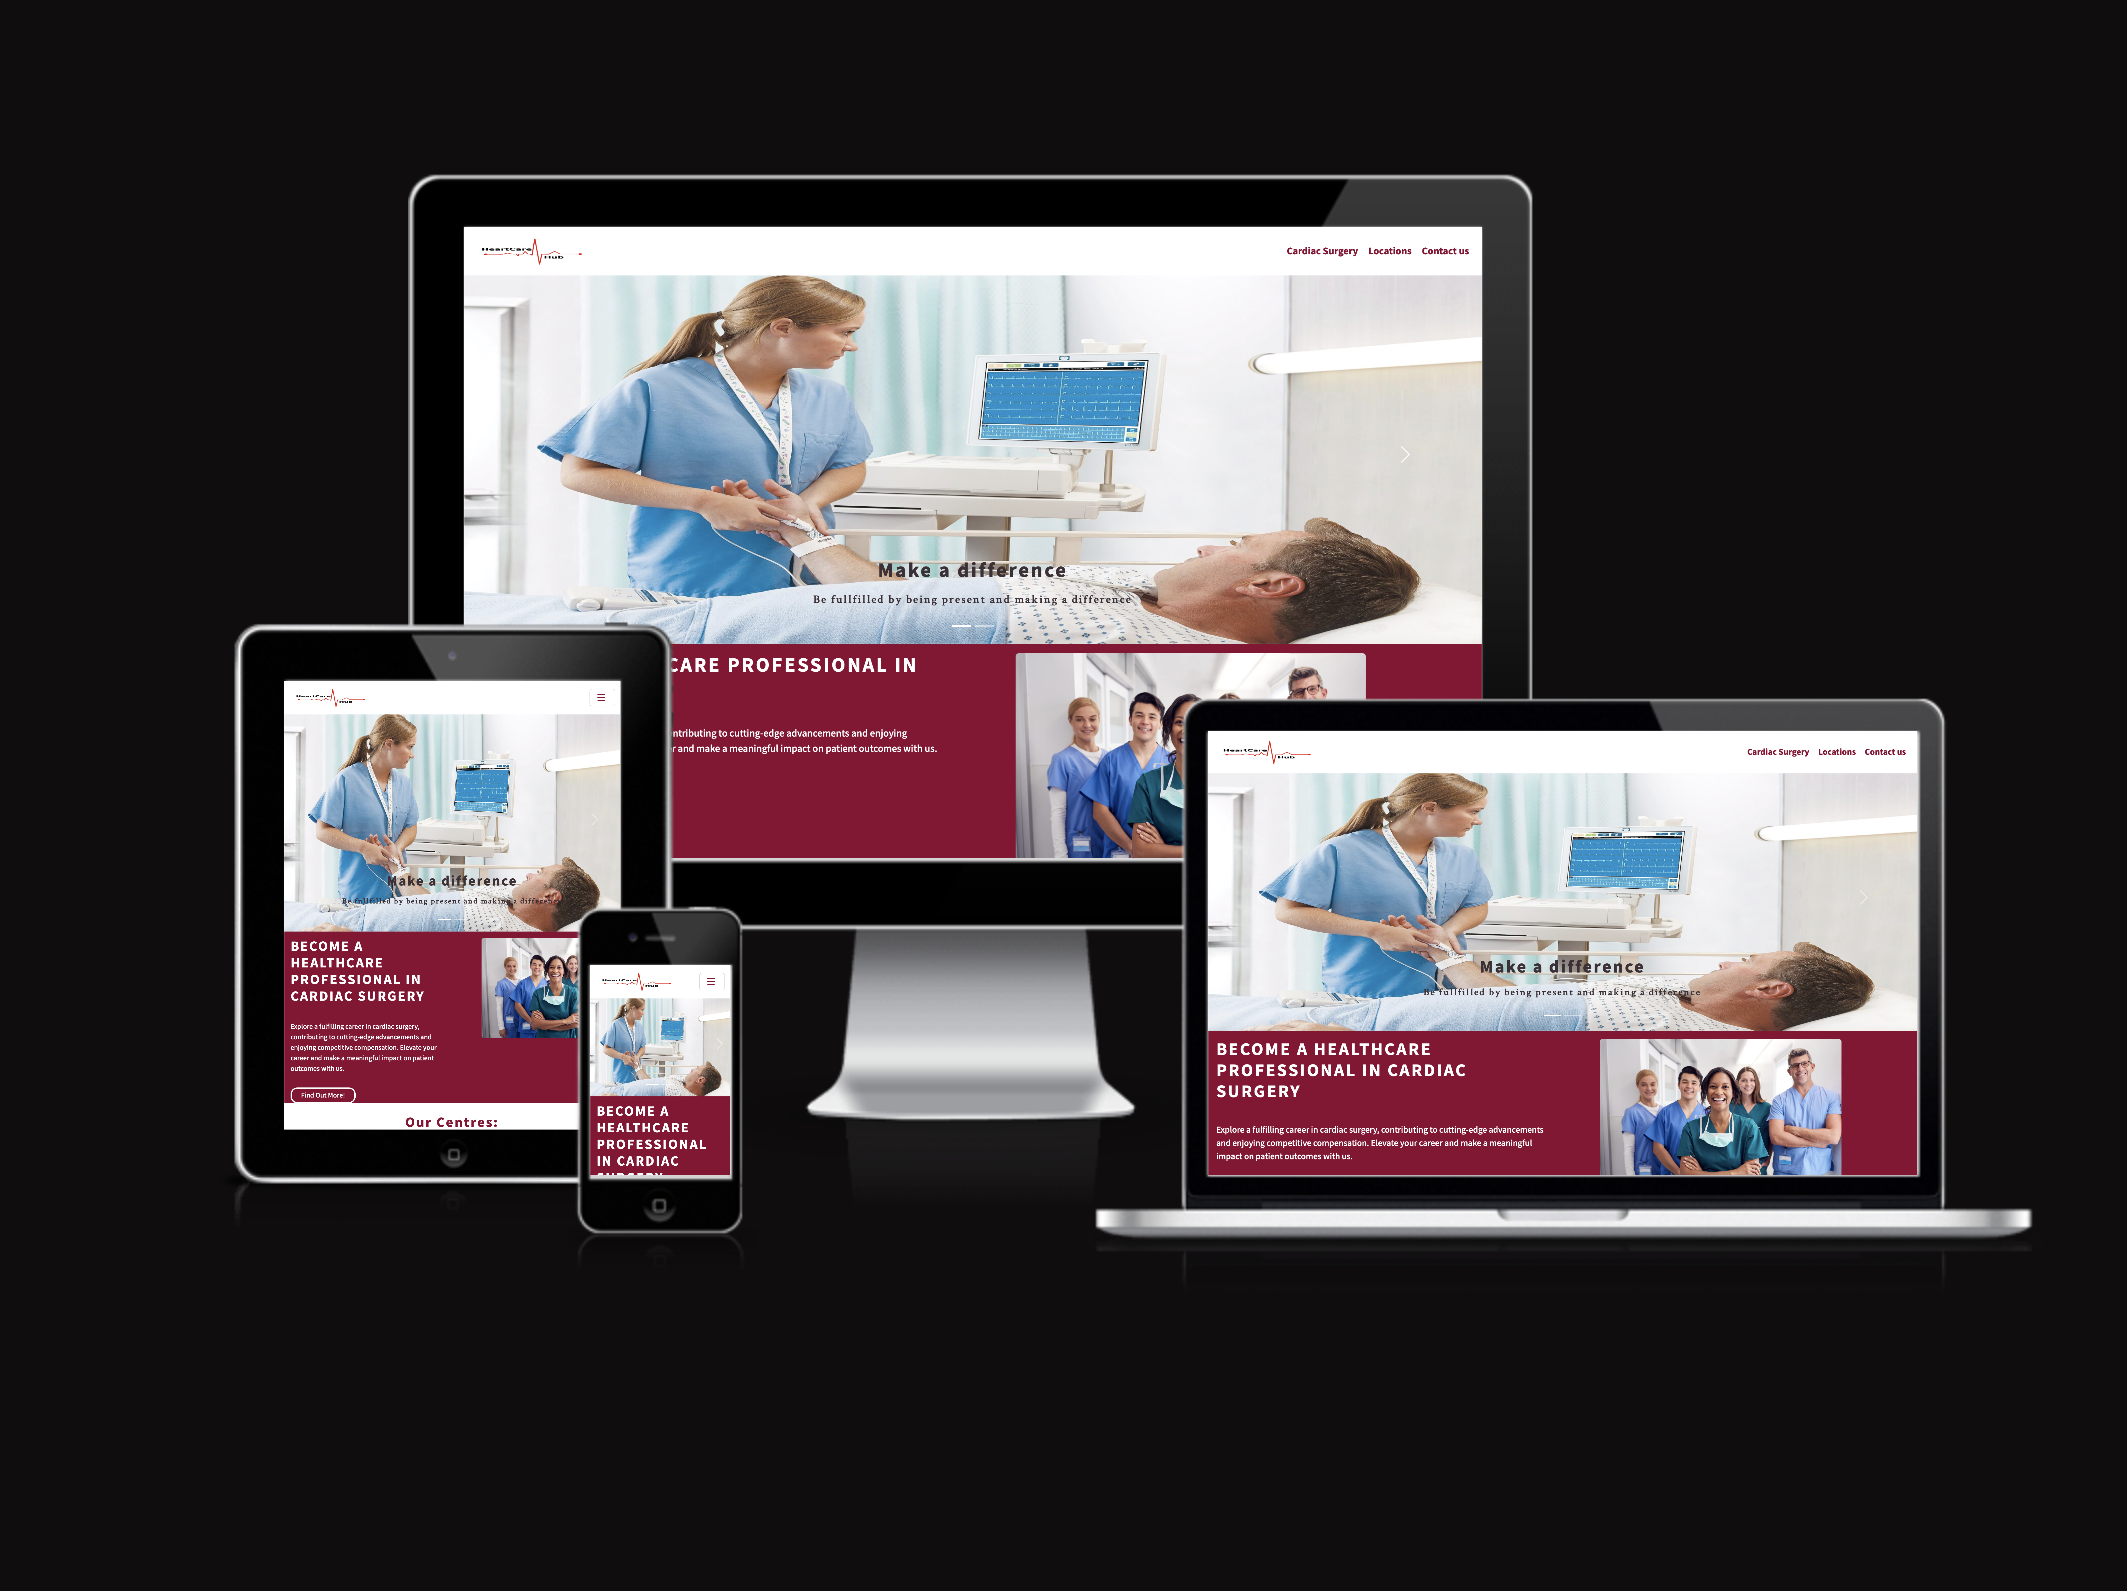
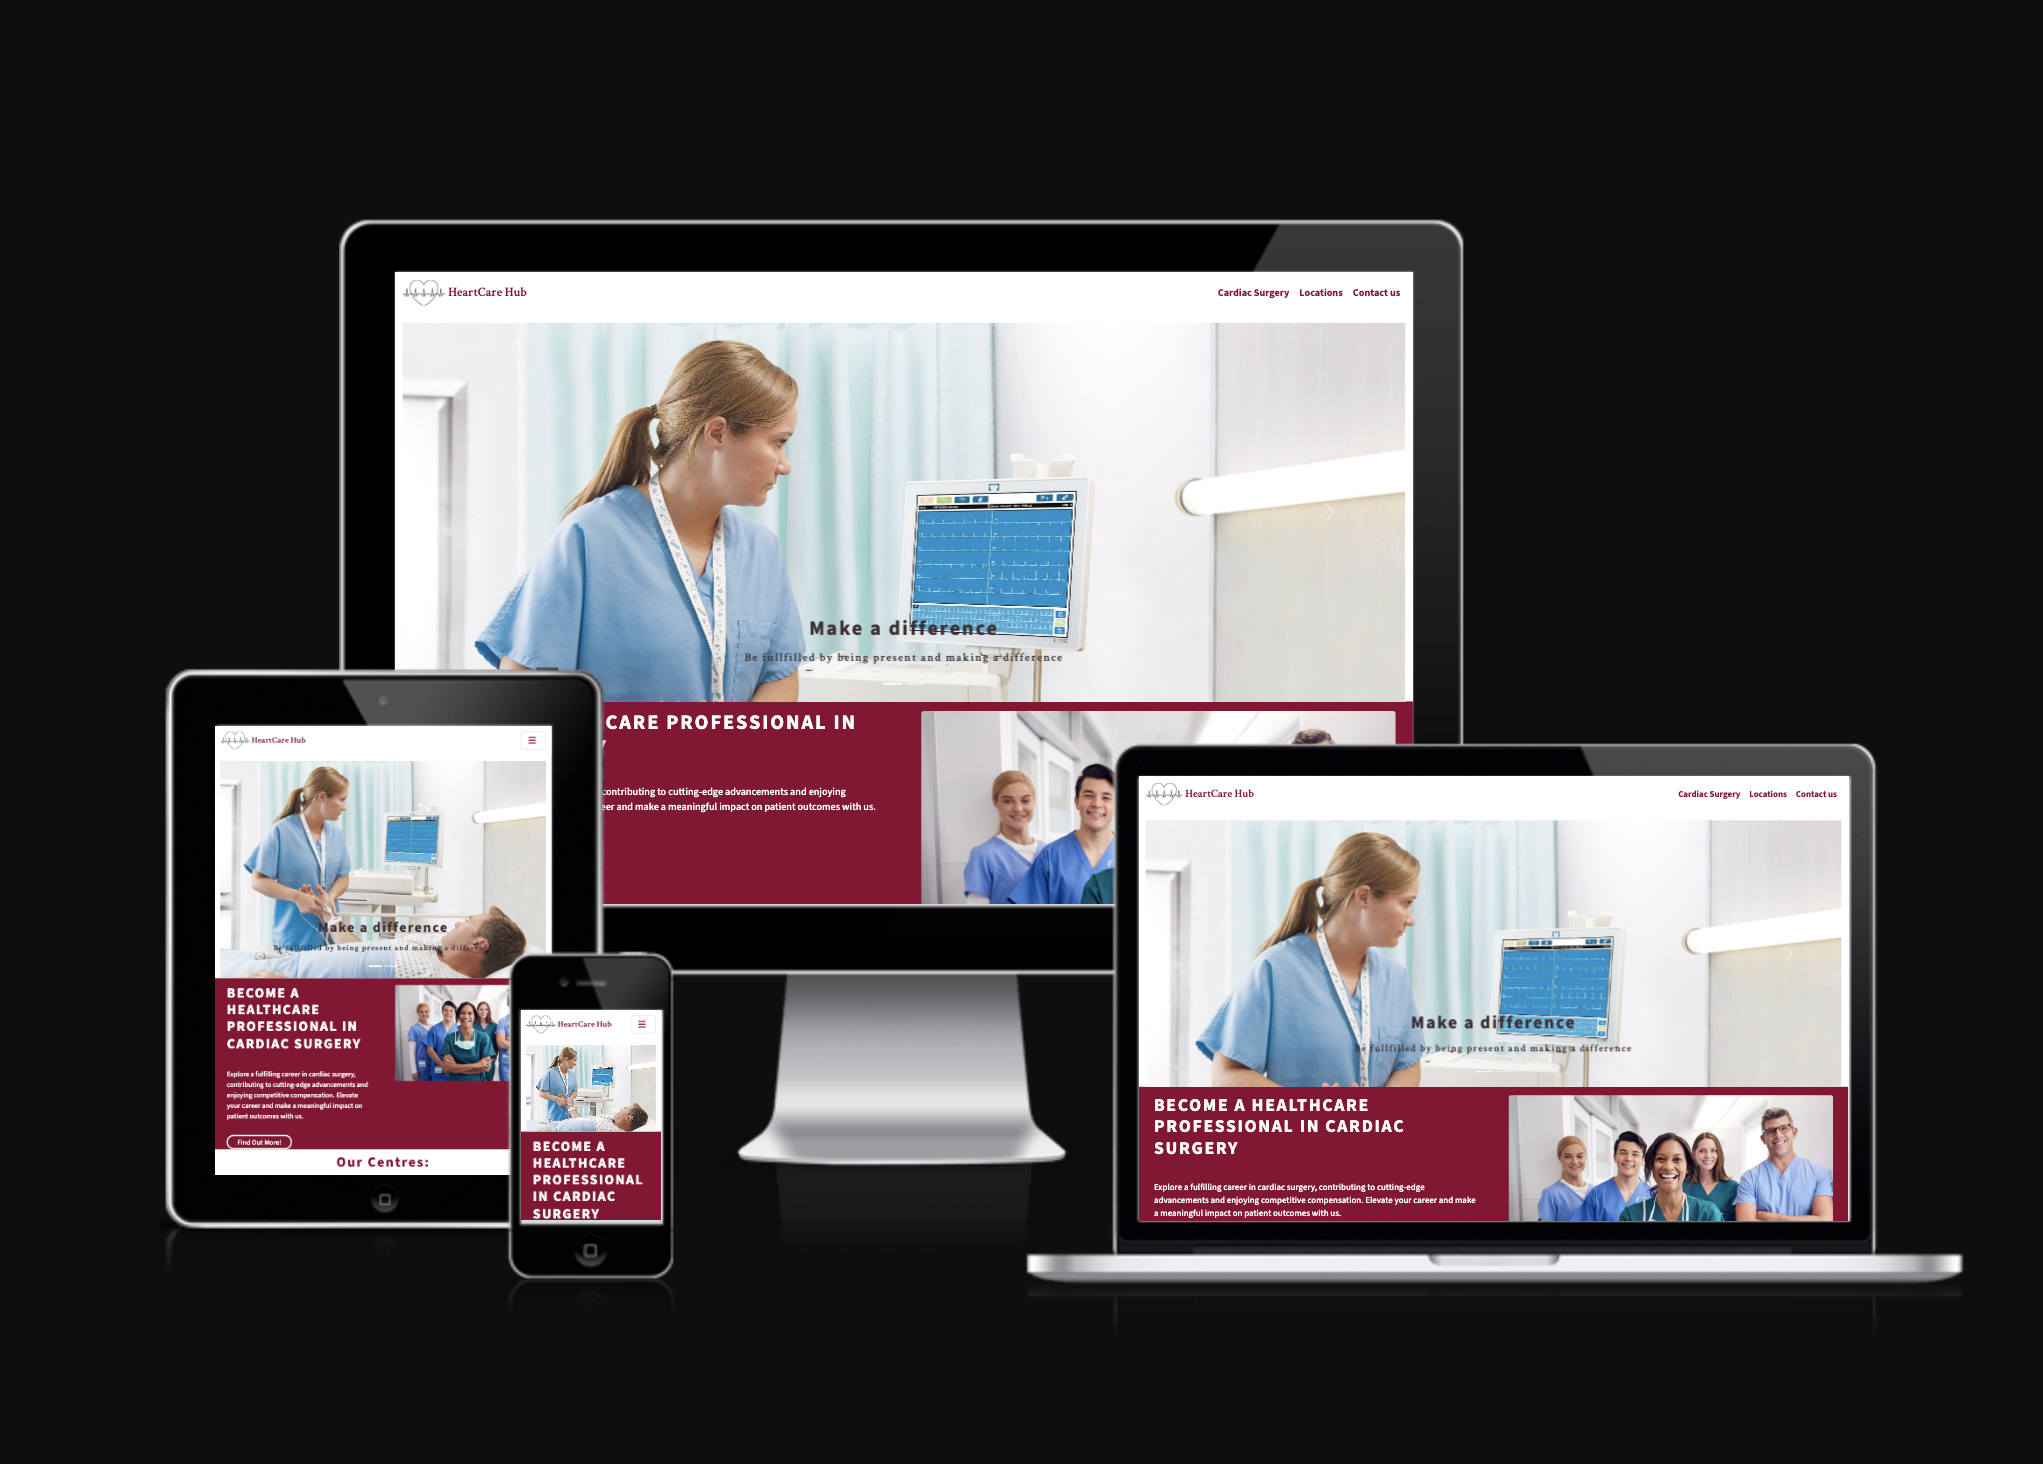
Add content credits

diff --git a/README.md b/README.md
@@ -18,15 +18,15 @@ In this section, you will briefly explain your design processes.
 
  Research have shown that most medical websites use blue as the primary theme to promote trust and professionalism[1]. However, I have chosen a set of colours that provide an association to the colours of the heart to correspond with the theme of cardiac surgery. Below are the set of colours chosen to represent the website.
 
-- `#e71348` used for primary text.
-- `#fff` used for primary highlights.
-- `#8C0032` used for secondary text.
-- `#666666` used for secondary highlights.
+- `#8C0032` used for primary text.
+- `#8C0032` used for primary highlights.
+- `#3d3035` used for secondary text.
+- `#fff` used for secondary highlights.
 
 
 I used [coolors.co](https://coolors.co/8c0032-e71348-ffffff-666666-333333) to generate my colour palette.
 
-![screenshot](![color scheme](documentation/colourscheme.png))
+![screenshot](![color scheme](documentation/colourscheme2.png))
 
 
 
@@ -38,7 +38,7 @@ These three fonts were recommended for the use of healthcare websites: [2]
 
 Source Sans pro- sans-serif font
 Crimsons text- serif font
-Fjord One - sans-serif font
+
 The applied use of a combination serif and sans-serif is further recommended in a medical website to provide contrast.
 
 Therefore, these three recommended fonts will be used along with different font-weights used accodingly. Only two fonts will be used as three or more can make teh website appear excessive and lose professionalism [3].
@@ -202,24 +202,12 @@ Feel free to delete any unused items below as necessary.
 - [CSS Flexbox](https://www.w3schools.com/css/css3_flexbox.asp) used for an enhanced responsive layout.
 - [CSS Grid](https://www.w3schools.com/css/css_grid.asp) used for an enhanced responsive layout.
 - [JavaScript](https://www.javascript.com) used for user interaction on the site.
-- [Python](https://www.python.org) used as the back-end programming language.
 - [Git](https://git-scm.com) used for version control. (`git add`, `git commit`, `git push`)
 - [GitHub](https://github.com) used for secure online code storage.
 - [GitHub Pages](https://pages.github.com) used for hosting the deployed front-end site.
 - [Gitpod](https://gitpod.io) used as a cloud-based IDE for development.
 - [Codeanywhere](https://codeanywhere.com) used as a cloud-based IDE for development.
 - [Bootstrap](https://getbootstrap.com) used as the front-end CSS framework for modern responsiveness and pre-built components.
-- [Materialize](https://materializecss.com) used as the front-end CSS framework for modern responsiveness and pre-built components.
-- [Flask](https://flask.palletsprojects.com) used as the Python framework for the site.
-- [Django](https://www.djangoproject.com) used as the Python framework for the site.
-- [MongoDB](https://www.mongodb.com) used as the non-relational database management with Flask.
-- [SQLAlchemy](https://www.sqlalchemy.org) used as the relational database management with Flask.
-- [PostgreSQL](https://www.postgresql.org) used as the relational database management.
-- [ElephantSQL](https://www.elephantsql.com) used as the Postgres database.
-- [Heroku](https://www.heroku.com) used for hosting the deployed back-end site.
-- [Cloudinary](https://cloudinary.com) used for online static file storage.
-- [Stripe](https://stripe.com) used for online secure payments of ecommerce products/services.
-- [AWS S3](https://aws.amazon.com/s3) used for online static file storage.
 
 ## Testing
 
@@ -278,44 +266,28 @@ Use this space to discuss any differences between the local version you've devel
 
 ## Credits
 
-🛑🛑🛑🛑🛑 START OF NOTES (to be deleted) 🛑🛑🛑🛑🛑
-
-In this section you need to reference where you got your content, media, and extra help from.
-It is common practice to use code from other repositories and tutorials,
-however, it is important to be very specific about these sources to avoid plagiarism.
-
-🛑🛑🛑🛑🛑 END OF NOTES (to be deleted) 🛑🛑🛑🛑🛑
 
 ### Content
-
-🛑🛑🛑🛑🛑 START OF NOTES (to be deleted) 🛑🛑🛑🛑🛑
-
-Use this space to provide attribution links to any borrowed code snippets, elements, or resources.
-A few examples have been provided below to give you some ideas.
-
-Ideally, you should provide an actual link to every resource used, not just a generic link to the main site!
-
-🛑🛑🛑🛑🛑 END OF NOTES (to be deleted) 🛑🛑🛑🛑🛑
 
 | Source | Location | Notes |
 | --- | --- | --- |
 | [Markdown Builder](https://tim.2bn.dev/markdown-builder) | README and TESTING | tool to help generate the Markdown files |
-| [Chris Beams](https://chris.beams.io/posts/git-commit) | version control | "How to Write a Git Commit Message" |
-| [W3Schools](https://www.w3schools.com/howto/howto_js_topnav_responsive.asp) | entire site | responsive HTML/CSS/JS navbar |
-| [W3Schools](https://www.w3schools.com/howto/howto_css_modals.asp) | contact page | interactive pop-up (modal) |
-| [W3Schools](https://www.w3schools.com/css/css3_variables.asp) | entire site | how to use CSS :root variables |
-| [Flexbox Froggy](https://flexboxfroggy.com/) | entire site | modern responsive layouts |
-| [Grid Garden](https://cssgridgarden.com) | entire site | modern responsive layouts |
-| [StackOverflow](https://stackoverflow.com/a/2450976) | quiz page | Fisher-Yates/Knuth shuffle in JS |
-| [YouTube](https://www.youtube.com/watch?v=YL1F4dCUlLc) | leaderboard | using `localStorage()` in JS for high scores |
+| [Chris Beams](https://chris.beams.io/posts/git-commit) | Version control | "How to Write a Git Commit Message" |
+| [Bootstrap](https://getbootstrap.com/docs/4.0/components/navbar/) | Entire site | Responsive HTML/CSS/navbar |
+| [StackOverflow](https://stackoverflow.com/questions/40436285/bootstrap-navbar-logo-size) | Entire site | Customising nav |
+| [Bootstrap](https://getbootstrap.com/docs/5.3/components/carousel/) | Index page and Location page | Setting up a carousel |
+| [YouTube](https://www.youtube.com/watch?v=drAGqG-jm2Q) | Index page and Location page | Zoom hover effect |
+| [YouTube](https://www.youtube.com/watch?v=bGl6Jnud0QA) | Information page | Costumising the colours of the navpills |
+| [YouTube](https://www.youtube.com/watch?v=KIC0OK9nKXY) | Location | Embedding maps in HTML |
+| [YouTube](https://yoast.com/how-to-make-youtube-videos-responsive/) | Information page | Making the YouTube videos responsive |
 | [YouTube](https://www.youtube.com/watch?v=u51Zjlnui4Y) | PP3 terminal | tutorial for adding color to the Python terminal |
-| [strftime](https://strftime.org) | CRUD functionality | helpful tool to format date/time from string |
-| [WhiteNoise](http://whitenoise.evans.io) | entire site | hosting static files on Heroku temporarily |
-
-Reference:
-[1]doctorlogic.com. (n.d.). Beyond Blue and White: A Guide to Choosing Medical Logo Colors. [online] Available at: https://doctorlogic.com/blog/medical-logo-colors.html#:~:text=Why%20Are%20Blue%20And%20White.
-[2]Anon, (n.d.). Choosing The Best Fonts For Dental And Medical Websites | Dental CountryTM. [online] Available at: https://dentalcountry.com/doctors/articles/choosing-the-best-fonts-for-dental-and-medical-websites/#whatis [Accessed 10 Dec. 2023].
-[3]ThoughtCo. (n.d.). Everything You Need to Know About Choosing the Right Font Family. [online] Available at: https://www.thoughtco.com/font-families-basics-3467382.
+| [NHS](https://www.nhs.uk/conditions/congenital-heart-disease/types/#:~:text=Septal%20defects,main%20chambers%20of%20the%20heart.)| Information page | Information regarding Septal Defects|
+| [NHS](https://www.nhs.uk/conditions/coronary-artery-bypass-graft-cabg/)| Information page | Information regarding Coronary Artery Bypass Graft|
+| [Hopkins Medicine](https://www.hopkinsmedicine.org/health/treatment-tests-and-therapies/cardiovascular-surgery.) | Information page | Information regarding cardiac surgery |
+| [NHS Scotland](https://apply.jobs.scot.nhs.uk/Job/JobDetail?JobId=133087#:~:text=Duties%20include%20the%20provision%20of,bedded%20cardiothoracic%20critical%20care%20unit) | Information page | Information regarding aneasthethist role |
+| [Indeed Career](https://au.indeed.com/career-advice/finding-a-job/what-does-a-cardiac-nurse-do) | Information page | Information regarding nurses |
+| [StackOverflow](https://stackoverflow.com/questions/8097744/how-do-i-center-this-form-in-css) | entire site | How to center a div in a div |
+| [YouTube](https://www.youtube.com/watch?v=-jnCgrR_yKg) | Entire Site | Tutorial on the bootstrap grid system |
 
 ### Media
 | Source | Location | Type | Notes |
@@ -337,17 +309,17 @@ Reference:
 | [Osmosis from Elsevier](https://www.youtube.com/watch?v=e7ObXrdtXek) | Information page | Youtube Video | Informative video on ventricular septal defect|
  [Osmosis from Elsevier](https://www.youtube.com/watch?v=GUagU8YrJZc) | Information page | Youtube Video | Informative video on aortic dissection|
 
+
+Reference:
+[1]doctorlogic.com. (n.d.). Beyond Blue and White: A Guide to Choosing Medical Logo Colors. [online] Available at: https://doctorlogic.com/blog/medical-logo-colors.html#:~:text=Why%20Are%20Blue%20And%20White.
+[2]Anon, (n.d.). Choosing The Best Fonts For Dental And Medical Websites | Dental CountryTM. [online] Available at: https://dentalcountry.com/doctors/articles/choosing-the-best-fonts-for-dental-and-medical-websites/#whatis [Accessed 10 Dec. 2023].
+[3]ThoughtCo. (n.d.). Everything You Need to Know About Choosing the Right Font Family. [online] Available at: https://www.thoughtco.com/font-families-basics-3467382.
+
 ### Acknowledgements
 
-🛑🛑🛑🛑🛑 START OF NOTES (to be deleted) 🛑🛑🛑🛑🛑
-
-Use this space to provide attribution to any supports that helped, encouraged, or supported you throughout the development stages of this project.
-A few examples have been provided below to give you some ideas.
-
-🛑🛑🛑🛑🛑 END OF NOTES (to be deleted) 🛑🛑🛑🛑🛑
 
 - I would like to thank my Code Institute mentor, [Tim Nelson](https://github.com/TravelTimN) for their support throughout the development of this project.
 - I would like to thank the [Code Institute](https://codeinstitute.net) tutor team for their assistance with troubleshooting and debugging some project issues.
 - I would like to thank the [Code Institute Slack community](https://code-institute-room.slack.com) for the moral support; it kept me going during periods of self doubt and imposter syndrome.
-- I would like to thank my partner (John/Jane), for believing in me, and allowing me to make this transition into software development.
+- I would like to thank my partner Jon and my brother Elan, for believing in me, and allowing me to make this transition into software development.
 - I would like to thank my employer, for supporting me in my career development change towards becoming a software developer.
